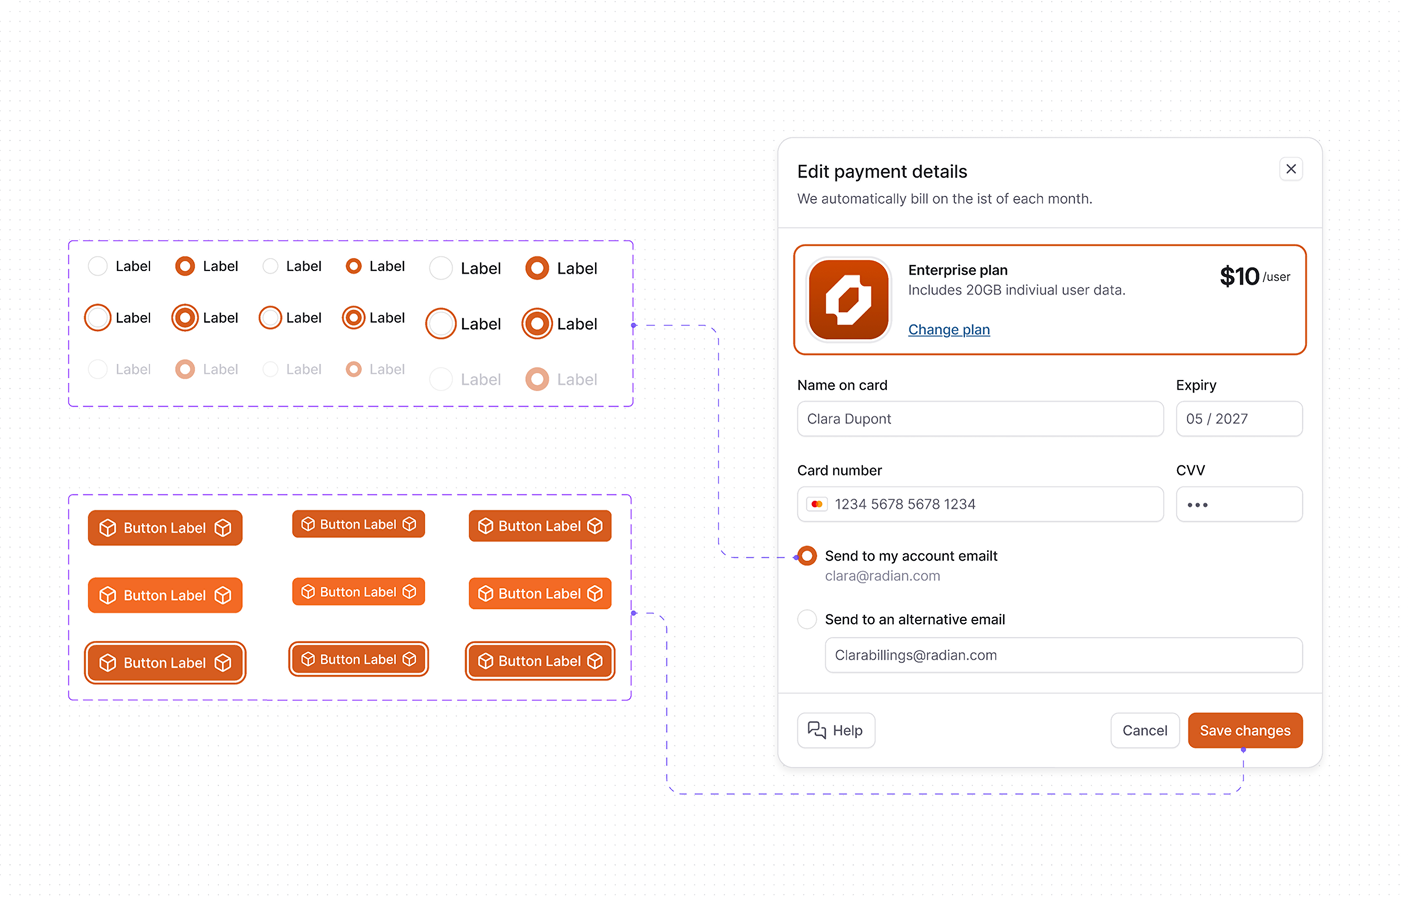
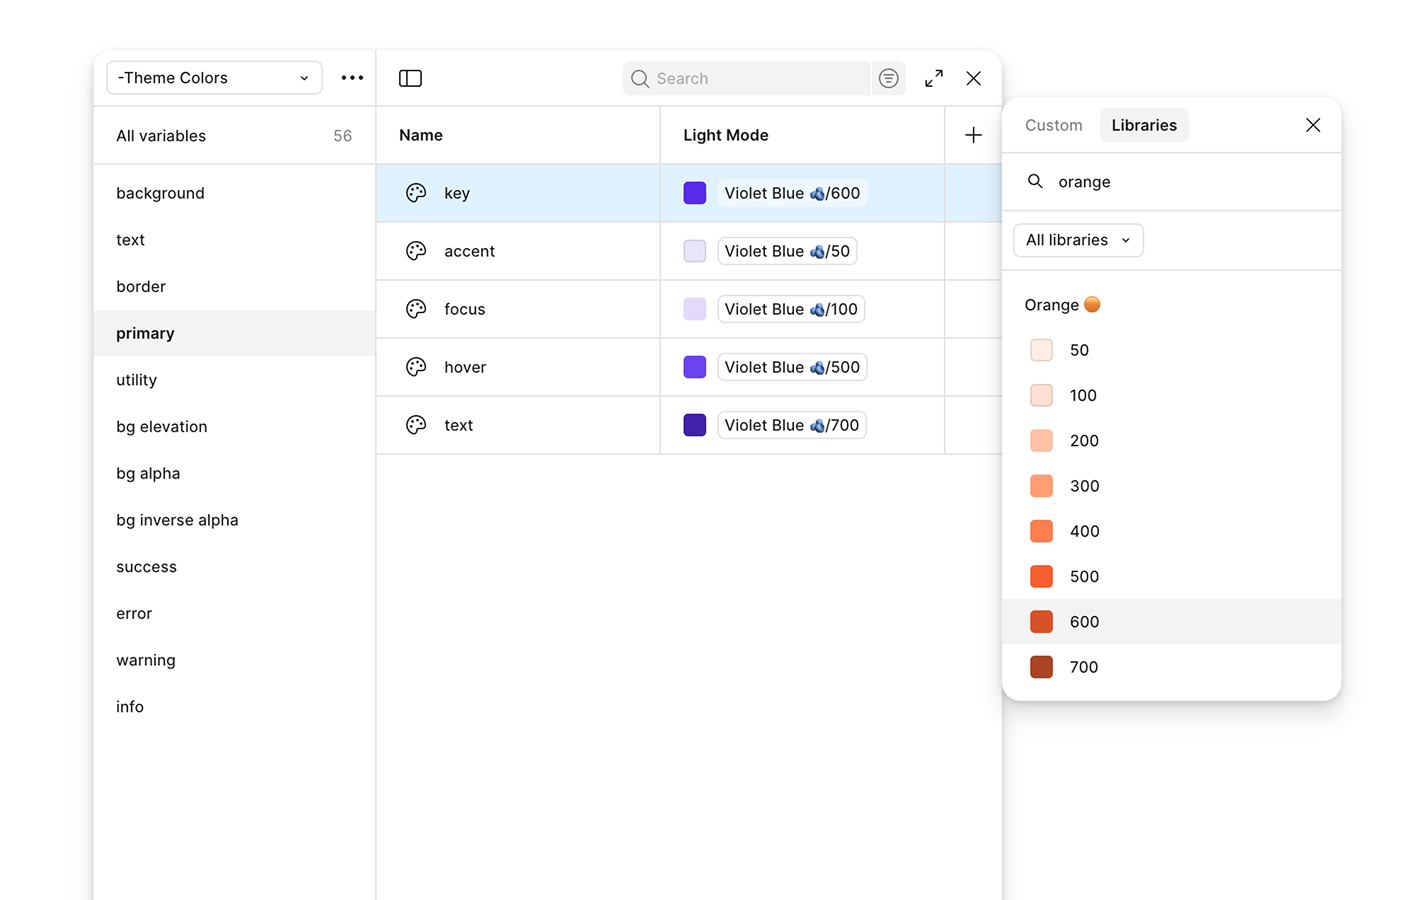
fix(mdx): gap and alt name in image

diff --git a/apps/website/src/components/mdx-components-docs.tsx b/apps/website/src/components/mdx-components-docs.tsx
@@ -343,7 +343,7 @@ const components: MDXComponents = {
 	ul: ({ children, className }: { children: React.ReactNode; className?: string }) => {
 		return <ul className={cn("list-disc space-y-4 pb-6", className)}>{children}</ul>
 	},
-	ol: ({ className, ...props }: React.ComponentProps<"ol">) => <ol className={cn("marker:text-fg my-6 ml-6 list-decimal marker:font-bold", className)} {...props} />,
+	ol: ({ className, ...props }: React.ComponentProps<"ol">) => <ol className={cn("marker:text-fg my-6 ml-6 list-decimal space-y-4 marker:font-bold", className)} {...props} />,
 
 	li: ({ children, className }: { children: React.ReactNode; className?: string }) => {
 		return <li className={cn("text-fg-secondary", className)}>{children}</li>
@@ -415,7 +415,7 @@ const components: MDXComponents = {
 	),
 	Image: ({ src, className, width, height, alt, ...props }: React.ComponentProps<"img">) => (
 		<Image
-			className={cn("bg-fill2 border-soft my-4 rounded-2xl border-8 object-cover", className)}
+			className={cn("bg-fill2 border-soft mb-6 mt-4 rounded-2xl border-8 object-cover", className)}
 			src={src || ""}
 			width={Number(width)}
 			height={Number(height)}
